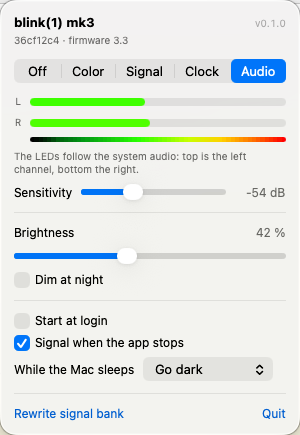
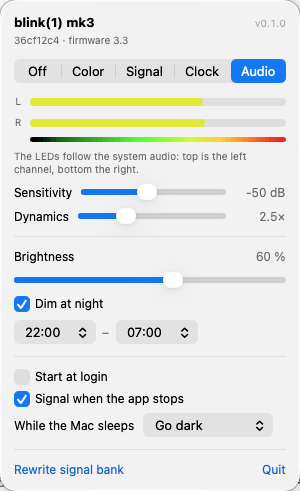
Let the audio meter expand the dynamics it is given
Compressed masters leave a few decibels of range, which an absolute scale turns
into a single colour that never moves. The meter now tracks where the programme
sits and pushes the display away from that average by an adjustable factor —
trading the absolute reading for the relative dynamics that are still in there.

Measured on radio material: 38-55% of the scale at 1x, 45-86% at the 2.5x
default. One average for both channels, so the stereo difference survives.

diff --git a/App/Blink1Bar/Model/AudioLevelMeter.swift b/App/Blink1Bar/Model/AudioLevelMeter.swift
@@ -12,22 +12,49 @@ struct AudioLevelMeter {
     /// Where the scale bottoms out. Quieter than this reads as silence.
     var floorDecibels: Float = -50
 
+    /// Spreads what little dynamic range modern masters leave. See `expand(_:)`.
+    var expansion: Float = 1
+
     private var attackSeconds: Float = 0.01
     private var releaseSeconds: Float = 0.25
+    /// Tracks where the music currently sits, so expansion has something to pivot around.
+    private var averageSeconds: Float = 2.5
+    private var average: Float = 0
     private var left: Float = 0
     private var right: Float = 0
 
     /// - Parameter elapsed: time since the last update, so the envelope is frame-rate independent.
     /// - Returns: both channels on a 0…1 scale.
     mutating func update(with levels: SystemAudioTap.Levels, elapsed: TimeInterval) -> (left: Float, right: Float) {
-        left = follow(left, target: normalized(levels.left), elapsed: Float(elapsed))
-        right = follow(right, target: normalized(levels.right), elapsed: Float(elapsed))
+        let elapsed = Float(elapsed)
+        let normalizedLeft = normalized(levels.left)
+        let normalizedRight = normalized(levels.right)
+
+        // One average for both channels: the difference between them is the stereo image, and
+        // levelling the channels separately would flatten it away.
+        let coefficient = 1 - exp(-elapsed / averageSeconds)
+        average += ((normalizedLeft + normalizedRight) / 2 - average) * coefficient
+
+        left = follow(left, target: expand(normalizedLeft), elapsed: elapsed)
+        right = follow(right, target: expand(normalizedRight), elapsed: elapsed)
         return (left, right)
     }
 
     mutating func reset() {
         left = 0
         right = 0
+        average = 0
+    }
+
+    /// Pushes the display away from where the music sits.
+    ///
+    /// Modern masters are compressed to within a few decibels, so an absolute scale parks the whole
+    /// programme in one colour and nothing ever moves. Expanding around the running average trades
+    /// the absolute reading — mid-scale now means "average for this track" — for the relative
+    /// dynamics that are still in there. At 1 the meter is absolute again.
+    private func expand(_ level: Float) -> Float {
+        guard expansion > 1 else { return level }
+        return min(max(0.5 + (level - average) * expansion, 0), 1)
     }
 
     private func normalized(_ rms: Float) -> Float {

diff --git a/App/Blink1Bar/Views/AudioSectionView.swift b/App/Blink1Bar/Views/AudioSectionView.swift
@@ -7,6 +7,7 @@ struct AudioSectionView: View {
     @Environment(AppModel.self) private var model
 
     @State private var floorDecibels: Double = -50
+    @State private var expansion: Double = 2.5
 
     var body: some View {
         VStack(alignment: .leading, spacing: 8) {
@@ -37,8 +38,25 @@ struct AudioSectionView: View {
                     .frame(width: 52, alignment: .trailing)
             }
             .font(.callout)
+
+            HStack {
+                Text(R.L.Audio_DYNAMICS)
+                Slider(value: $expansion, in: 1...6) { editing in
+                    guard !editing else { return }
+                    model.preferences.audioExpansion = expansion
+                }
+                Text(verbatim: String(format: "%.1f×", expansion))
+                    .foregroundStyle(.secondary)
+                    .monospacedDigit()
+                    .frame(width: 52, alignment: .trailing)
+            }
+            .font(.callout)
+            .help(R.L.Audio_DYNAMICS_HELP)
         }
-        .onAppear { floorDecibels = model.preferences.audioFloorDecibels }
+        .onAppear {
+            floorDecibels = model.preferences.audioFloorDecibels
+            expansion = model.preferences.audioExpansion
+        }
     }
 
     /// The ramp the LEDs run through, drawn from the very function that feeds them.

diff --git a/App/Blink1Bar/Model/Preferences.swift b/App/Blink1Bar/Model/Preferences.swift
@@ -34,6 +34,8 @@ struct Preferences: Codable, Equatable, Sendable {
     var blipOnTheHour: Bool = true
     /// Where the audio meter bottoms out, in dBFS. Quieter than this reads as silence.
     var audioFloorDecibels: Double = -50
+    /// How far the meter spreads the dynamics it is given; 1 keeps the scale absolute.
+    var audioExpansion: Double = 2.5
     var dimsAtNight: Bool = true
     var nightStartHour: Int = 22
     var nightEndHour: Int = 7

diff --git a/App/Blink1Bar/Model/AppModel.swift b/App/Blink1Bar/Model/AppModel.swift
@@ -263,6 +263,7 @@ final class AppModel {
             lastFrame = now
 
             audioMeter.floorDecibels = Float(preferences.audioFloorDecibels)
+            audioMeter.expansion = Float(preferences.audioExpansion)
             let levels = audioMeter.update(with: audioTap.currentLevels, elapsed: Double(elapsed) / 1000)
             audioLevels = levels
 

diff --git a/README.md b/README.md
@@ -121,6 +121,11 @@ is worth knowing when the meters stay at zero. Levels are RMS on a decibel scale
 and a slow release, so the display follows the music instead of twitching. The tap is only open while
 the mode is selected.
 
+Modern masters are compressed into a few decibels, and an absolute scale parks all of that in one
+colour. The **Dynamics** control spreads the level around what the music currently averages: at 1×
+the meter reads absolute loudness, at the default 2.5× a typical track swings across roughly twice
+the range — measured on radio programme material, 38–55 % became 45–86 %.
+
 Brightness applies to every mode, with an optional night-time reduction between two hours. It can
 start at login, turns the LED dark while the Mac sleeps (or leaves it, your choice) and reconnects on
 wake — the device may have been re-enumerated in between. It re-arms the device-side watchdog every
